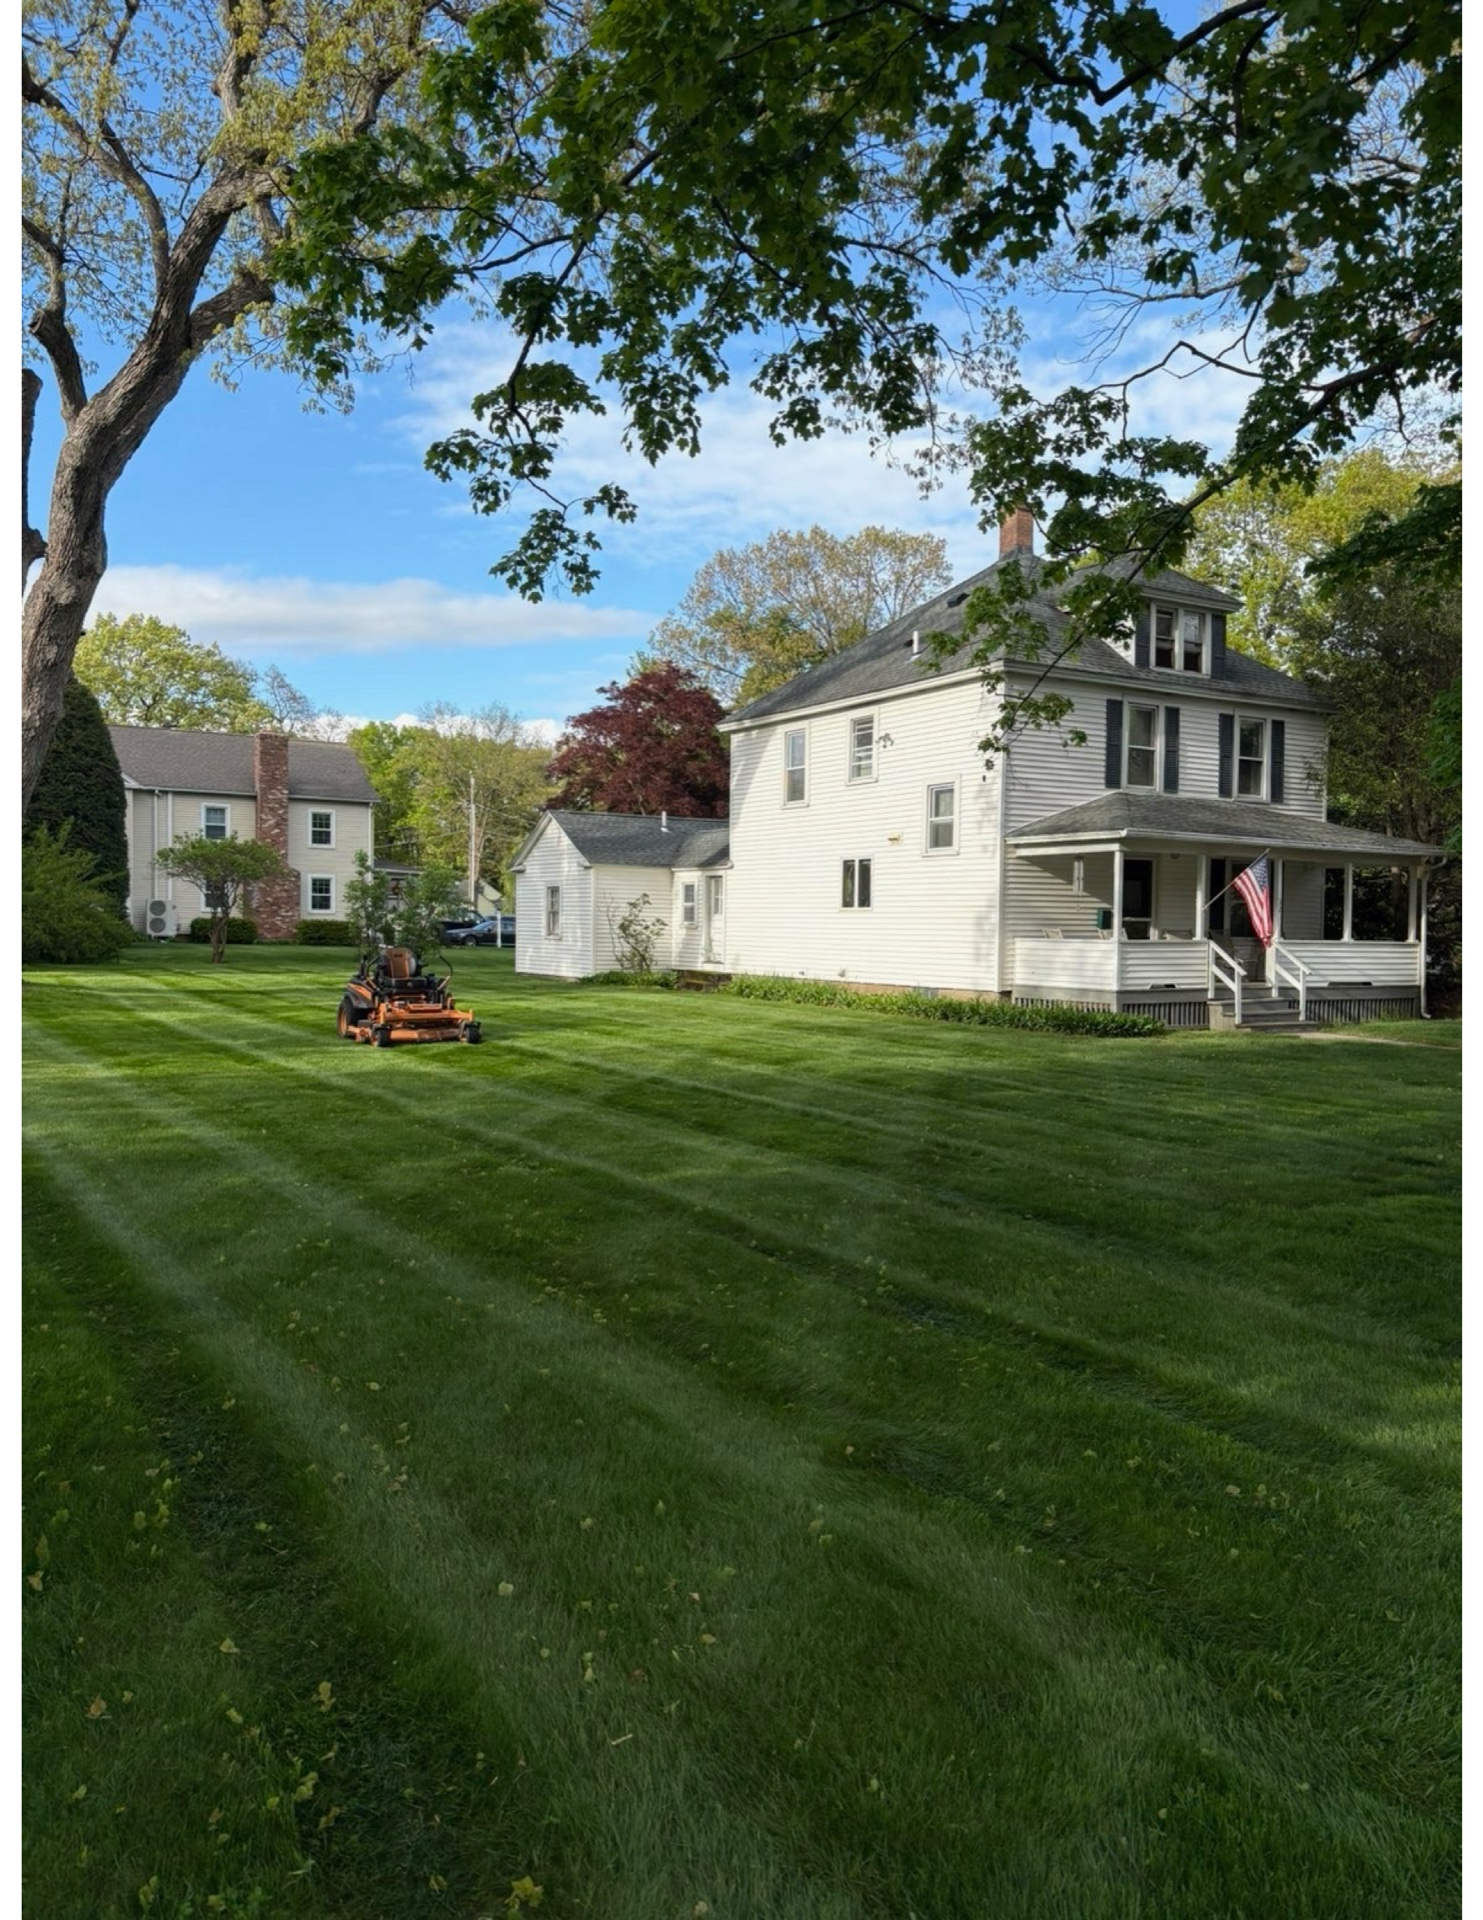
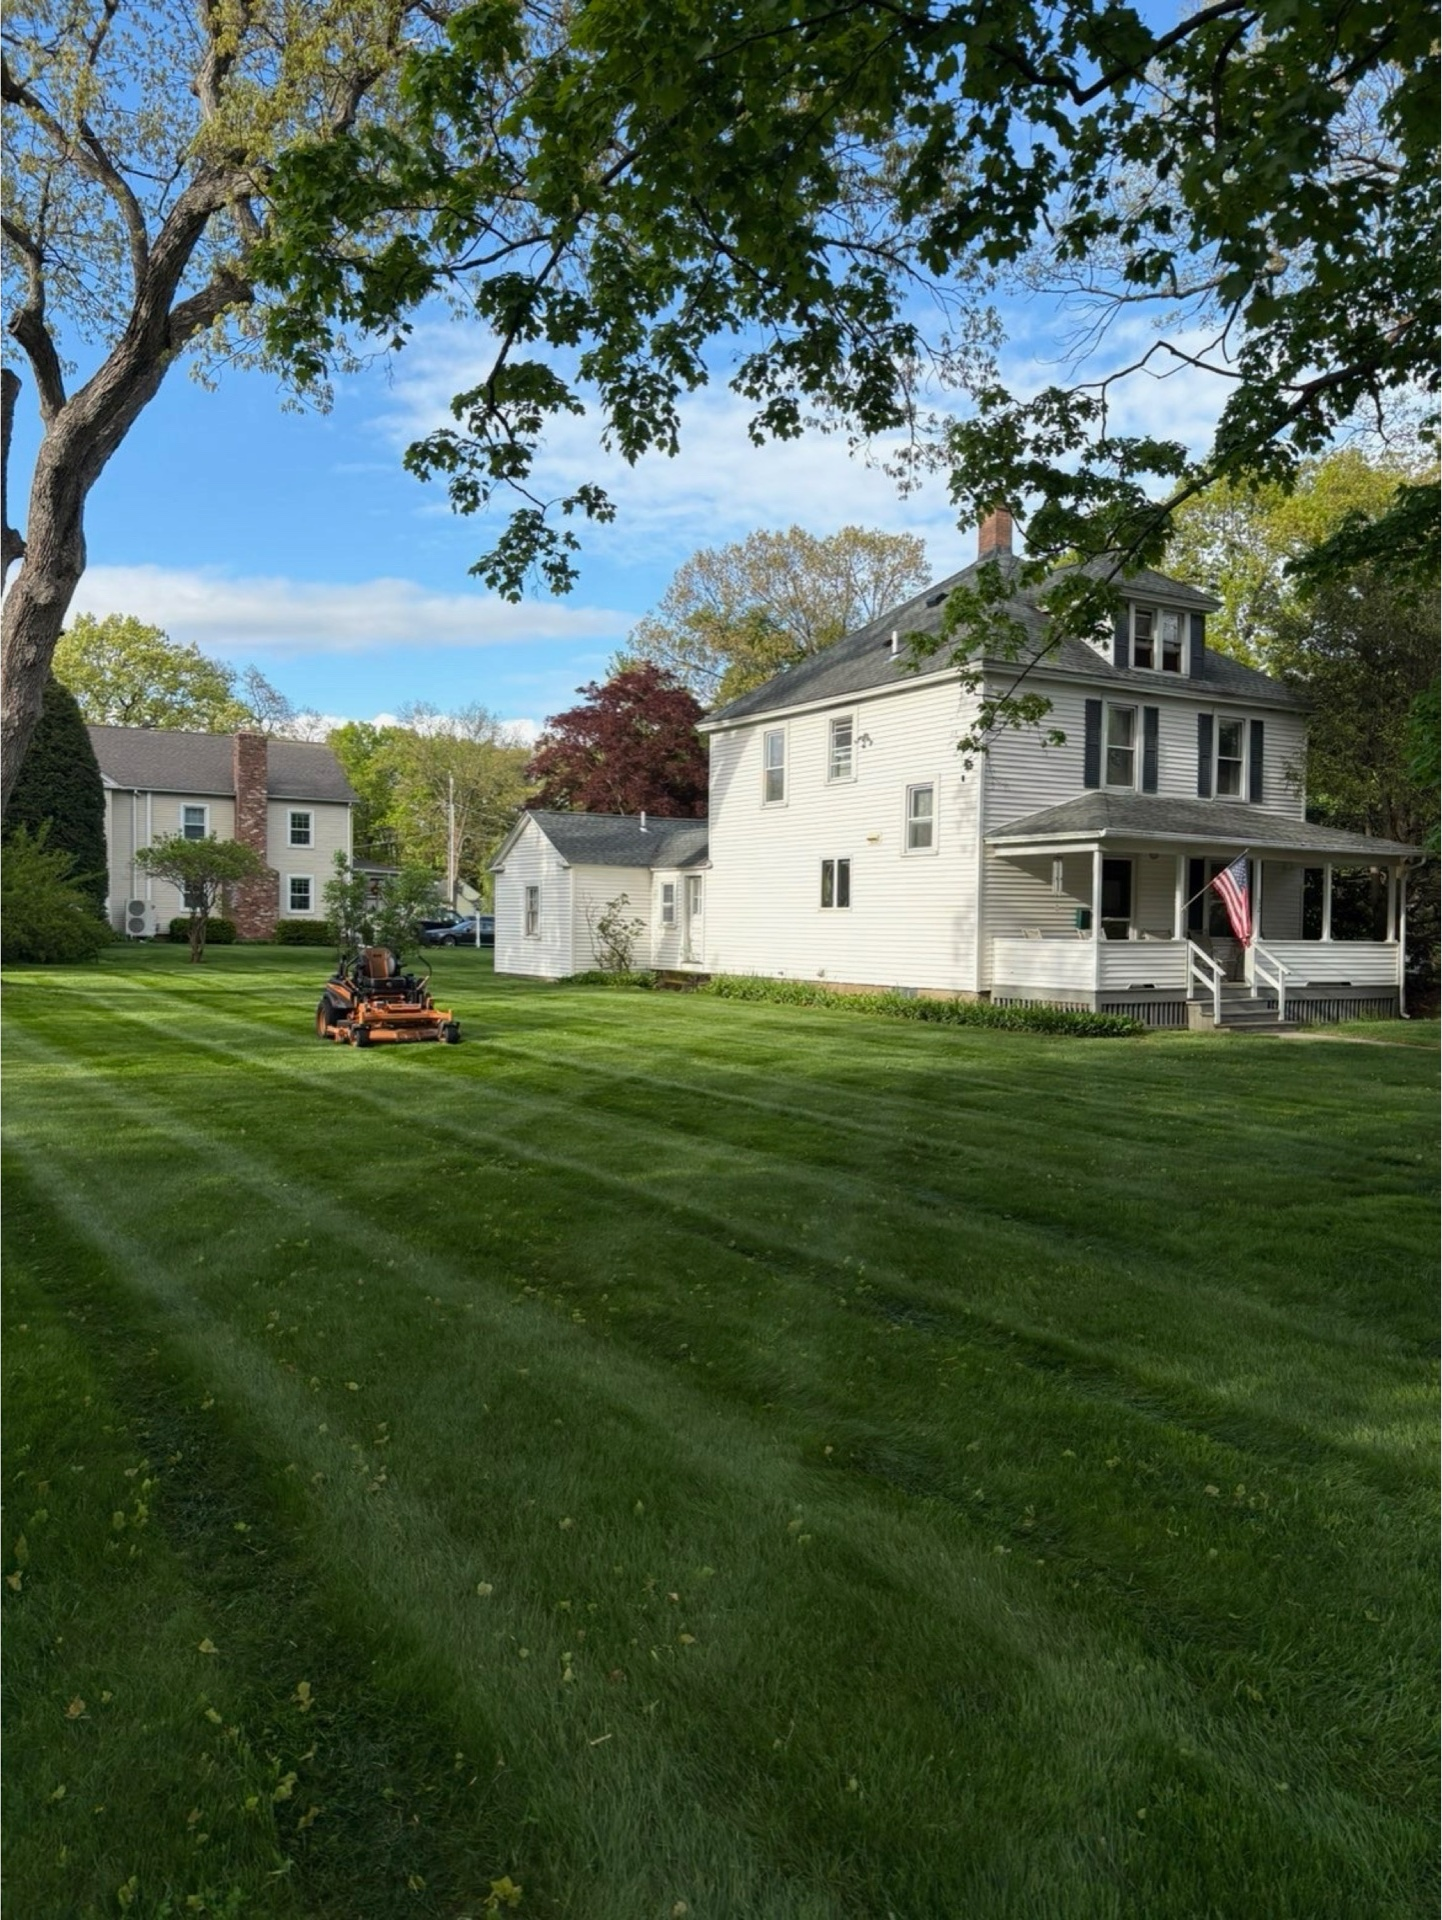
fix hero edges: trim white margins from photo, harden html/body/hero CSS

diff --git a/index.html b/index.html
@@ -64,9 +64,17 @@ All photos should be web-optimized JPGs. Recommended sizes:
    RESET
    ================================================ */
 *, *::before, *::after { box-sizing: border-box; }
-html { scroll-behavior: smooth; }
+html {
+  scroll-behavior: smooth;
+  margin: 0;
+  padding: 0;
+  width: 100%;
+  overflow-x: hidden;
+}
 body {
   margin: 0;
+  padding: 0;
+  width: 100%;
   font-family: 'DM Sans', system-ui, sans-serif;
   font-weight: 400;
   color: var(--dark);
@@ -327,12 +335,11 @@ h1, h2, h3, h4 {
 /* ================================================
    HERO
    ================================================ */
-/* HERO BACKGROUND IMAGE — Unsplash, free license */
+/* HERO BACKGROUND IMAGE */
 .hero {
   position: relative;
-  height: 100vh;
-  min-height: 640px;
-  max-height: 980px;
+  width: 100%;
+  min-height: 100vh;
   display: flex;
   align-items: center;
   justify-content: center;
@@ -342,7 +349,7 @@ h1, h2, h3, h4 {
   background-color: var(--green-deep);
   background-image: url('hero.jpg');
   background-size: cover;
-  background-position: center;
+  background-position: center center;
   background-repeat: no-repeat;
 }
 .hero::before {